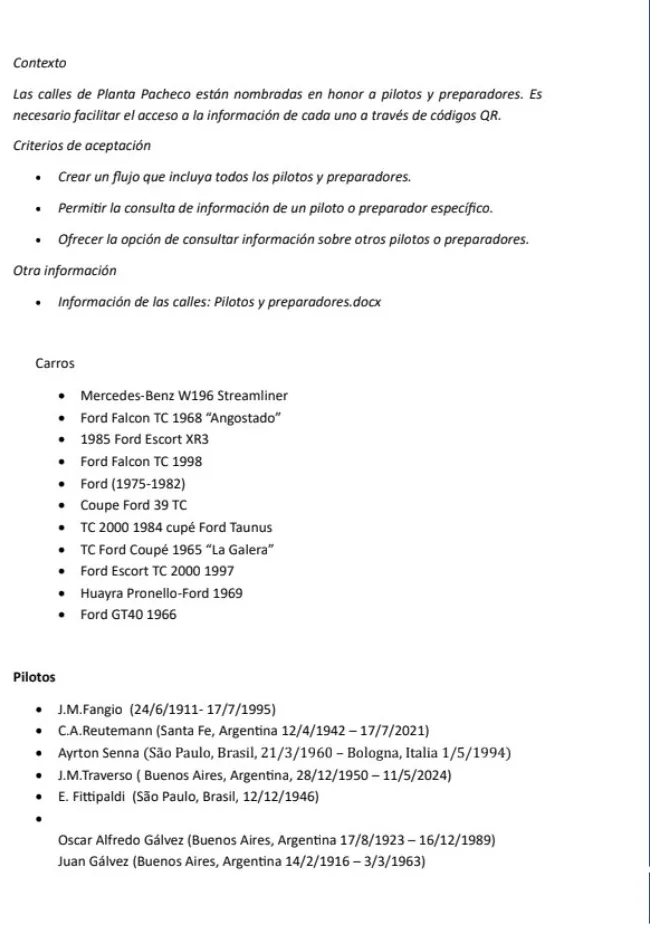
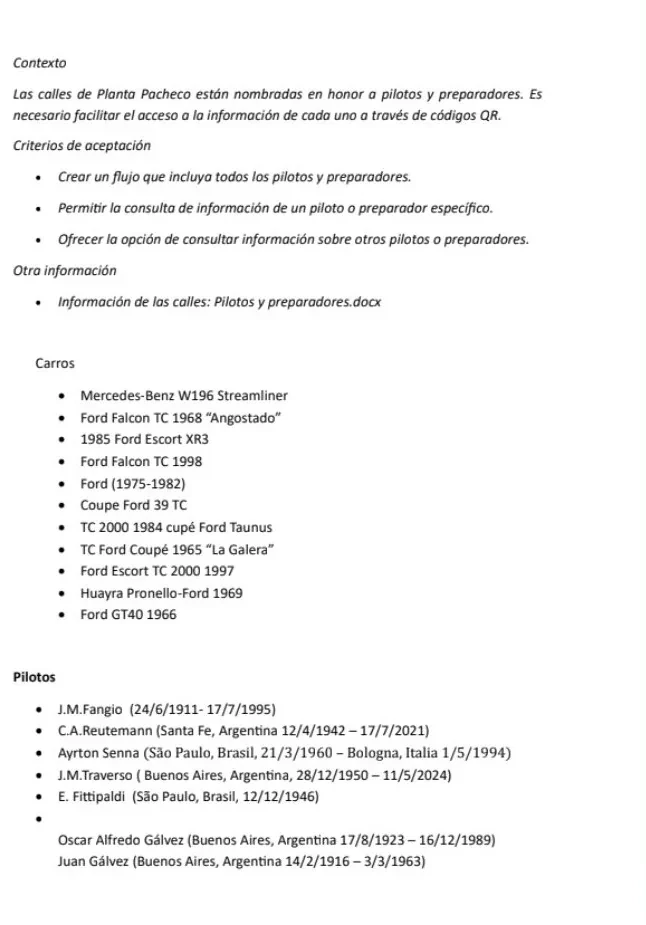
Add files via upload

diff --git a/build.py b/build.py
@@ -113,13 +113,13 @@ h3{font-size:1.2rem;margin:0 0 .4em;color:var(--ink)}.num{display:block;font:700
 .pills{display:flex;flex-wrap:wrap;gap:8px;justify-content:center;position:sticky;top:0;z-index:30;background:rgba(255,255,255,.92);-webkit-backdrop-filter:blur(8px);backdrop-filter:blur(8px);padding:10px 16px;margin:0 -16px;border-bottom:1px solid #f0ecff}article{scroll-margin-top:56px}.pills a{border:1px solid var(--pink);border-radius:999px;padding:6px 20px;text-decoration:none;color:var(--navy);font-weight:600;font-size:.85rem}
 .pills a[aria-current]{background:linear-gradient(90deg,#1c1140 0%,#235070 62%,#f28db1 190%);background-origin:border-box;color:#fff;border-color:transparent}
 .shero{display:flex;justify-content:space-between;align-items:center;gap:40px;color:#fff;border-radius:0;padding:56px calc(50vw - 50%);margin:12px calc(50% - 50vw) 0;background:var(--hex),linear-gradient(90deg,#1c1140 0%,#235070 62%,#f28db1 190%)}
-.shero small{font-size:.85rem}.shero h1{font:400 clamp(2.6rem,6vw,4.6rem)/1.05 Outfit,sans-serif;margin:.2em 0 0}
+.shero small{font-size:.85rem}.shero h1{font:700 clamp(2.8rem,7vw,4.8rem)/.98 Outfit,sans-serif;letter-spacing:-.04em;margin:.2em 0 0}
 .stats{min-width:200px}.stats div{border-top:1px solid rgba(255,255,255,.4);padding:22px 0}.stats div:last-child{padding-bottom:0}.stats div:first-child{border:0}.stats b{font:500 1.5rem/1.1 Outfit,sans-serif;display:block}.stats span{font-size:.75rem;display:block;margin-top:2px}
 .intro{font-size:1.15rem;margin:26px 0 16px;text-align:left}
 footer.site{margin-top:42px}.bandbar{height:14px;margin:0 calc(50% - 50vw);background:linear-gradient(90deg,#1c1140 0%,#235070 62%,#f28db1 190%)}.ft{display:flex;justify-content:space-between;align-items:center;padding:34px 8px}
 .ft h4{font:500 1.6rem Outfit,sans-serif;margin:0;color:var(--ink)}.ft p{margin:.2em 0 0;font-size:.9rem}.btn{border:1px solid #d9d2ff;border-radius:999px;padding:10px 34px;text-decoration:none;color:var(--navy)}
 .fl{display:flex;flex-wrap:wrap;gap:8px 24px;justify-content:center;text-align:center;font-size:.85rem;padding:0 8px 24px}.fl a{color:var(--navy);overflow-wrap:anywhere}
-html[data-embed] .site:not(.shero):not(footer){display:none}html[data-embed] .top{justify-content:flex-end}html[data-embed=body] .shero{display:none}html[data-embed],html[data-embed] body{overflow:hidden!important}html[data-embed] [id]{scroll-margin-top:90px}html[data-embed] dialog[open]{position:absolute;top:var(--dy,20px);bottom:auto;left:0;right:0;margin:0 auto;max-height:none}html[data-embed] dialog.hv{height:min(86vh,780px)}html[data-embed] dialog img{max-height:720px}html[data-embed=hero] main>*:not(.shero),html[data-embed=hero] footer,html[data-embed=hero] body>*:not(main){display:none!important}html[data-embed=hero] .shero{margin:0;min-height:100vh;box-sizing:border-box}html[data-embed=hero] body{margin:0;padding:0}html[data-embed=hero] main{max-width:none;padding:0;margin:0;width:100%}html[data-embed=hero],html[data-embed=hero] body{overflow:hidden;height:100%;background:transparent!important}html[data-embed=hero] .shero{background:none!important}html[data-embed=hero] .shero{margin:0!important;padding:20px max(20px,calc((100vw - 900px)/2))!important;border-radius:0;height:100vh;min-height:0!important;overflow:hidden}html[data-embed=hero] .shero h1{font-size:clamp(44px,9vh,64px);line-height:1.05}html[data-embed=hero] .stats{gap:0}
+html[data-embed] .nx a[href='#top']{display:none}html[data-embed] .site:not(.shero):not(footer){display:none}html[data-embed] .top{justify-content:flex-end}html[data-embed=body] .shero{display:none}html[data-embed],html[data-embed] body{overflow:hidden!important}html[data-embed] [id]{scroll-margin-top:90px}html[data-embed] dialog[open]{position:absolute;top:var(--dy,20px);bottom:auto;left:0;right:0;margin:0 auto;max-height:none}html[data-embed] dialog.hv{height:min(86vh,780px)}html[data-embed] dialog img{max-height:720px}html[data-embed=hero] main>*:not(.shero),html[data-embed=hero] footer,html[data-embed=hero] body>*:not(main){display:none!important}html[data-embed=hero] .shero{margin:0;min-height:100vh;box-sizing:border-box}html[data-embed=hero] body{margin:0;padding:0}html[data-embed=hero] main{max-width:none;padding:0;margin:0;width:100%}html[data-embed=hero],html[data-embed=hero] body{overflow:hidden;height:100%;background:transparent!important}html[data-embed=hero] .shero{background:none!important}html[data-embed=hero] .shero{margin:0!important;padding:20px max(20px,calc((100vw - 900px)/2))!important;border-radius:0;height:100vh;min-height:0!important;overflow:hidden}html[data-embed=hero] .shero h1{font-size:clamp(2.8rem,7vw,4.8rem);line-height:.98}html[data-embed=hero] .stats{gap:0}
 .fg{width:100%;height:520px;border:0;border-radius:24px;background:var(--soft);margin-top:20px}summary{cursor:pointer;font-weight:600;margin-top:18px;color:var(--violet)}
 .g{display:grid;grid-template-columns:repeat(auto-fill,minmax(220px,1fr));gap:10px;margin-top:14px}.g img{width:100%;border-radius:10px;cursor:zoom-in}
 .nx{display:flex;flex-wrap:wrap;align-items:center;justify-content:flex-start;gap:12px;margin-top:16px}
@@ -138,7 +138,7 @@ html[data-embed] main{padding-top:0}html[data-embed] .top{margin:0}
 .fl{flex-direction:column;align-items:center;gap:6px}
 .ft{padding:28px 8px}.btn{padding:10px 28px}
 html[data-embed=hero] .shero{height:auto!important;min-height:0!important;overflow:visible!important;padding:22px 20px!important;gap:22px}
-html[data-embed=hero] .shero h1{font-size:clamp(2rem,9vw,2.6rem)!important;line-height:1.08}
+html[data-embed=hero] .shero h1{font-size:2.8rem!important;line-height:1}
 html[data-embed=hero],html[data-embed=hero] body{overflow:visible!important;height:auto!important}
 .stats{min-width:0;width:100%}.stats div{padding:14px 0}
 }
@@ -168,6 +168,18 @@ addEventListener('message',e=>{if(e.data&&e.data.lang)set(String(e.data.lang).sl
 addEventListener('load',ping);addEventListener('resize',ping);
 document.querySelectorAll('details').forEach(d=>d.ontoggle=ping);
 {var q=new URLSearchParams(location.search);if(q.has('embed'))D.dataset.embed=q.get('embed')||'body';}
+(function(){var c=document.createElement('div');c.className='cc';c.setAttribute('role','dialog');var pt=()=>D.dataset.lang=='pt';
+c.innerHTML='<button class="x" aria-label="Fechar / Close">&times;</button><b></b><a target="_top" rel="noopener"></a><button class="cp"></button><small></small>';document.body.appendChild(c);
+var em=c.querySelector('b'),op=c.querySelector('a'),cp=c.querySelector('.cp'),sm=c.querySelector('small'),cur='';
+var close=()=>{c.classList.remove('on');ping()};
+c.querySelector('.x').onclick=close;
+function copy(t){try{if(navigator.clipboard&&window.isSecureContext)return navigator.clipboard.writeText(t).then(()=>1,()=>old(t))}catch(e){}return Promise.resolve(old(t))}
+function old(t){var a=document.createElement('textarea');a.value=t;a.setAttribute('readonly','');a.style.cssText='position:fixed;top:0;left:0;opacity:0';document.body.appendChild(a);a.select();a.setSelectionRange(0,t.length);var ok=0;try{ok=document.execCommand('copy')}catch(e){}a.remove();return ok}
+cp.onclick=()=>{copy(cur).then(ok=>{sm.textContent=ok?(pt()?'E-mail copiado ✓':'Email copied ✓'):(pt()?'Selecione e copie o e-mail acima':'Select and copy the email above')})};
+document.addEventListener('click',e=>{var a=e.target.closest('a[href^="mailto:"]');if(a&&!c.contains(a)){e.preventDefault();cur=a.getAttribute('href').slice(7);em.textContent=cur;op.href='mailto:'+cur;op.textContent=pt()?'Abrir meu app de e-mail':'Open my email app';cp.textContent=pt()?'Copiar e-mail':'Copy email';sm.textContent='';var r=a.getBoundingClientRect(),w=Math.min(320,innerWidth-24);c.classList.add('on');var h=c.offsetHeight,y=r.top+scrollY-h-10;if(y<scrollY+8)y=r.bottom+scrollY+10;var x=Math.max(12,Math.min(r.left+scrollX,innerWidth-w-12));c.style.top=y+'px';c.style.left=x+'px';ping();return}
+if(c.classList.contains('on')&&!c.contains(e.target))close()});
+document.addEventListener('keydown',e=>{if(e.key=='Escape')close()})})();
+
 if(D.dataset.embed){let cy=0;addEventListener('click',e=>{cy=e.clientY+scrollY},true);const o=HTMLDialogElement.prototype.showModal;HTMLDialogElement.prototype.showModal=function(){this.style.setProperty('--dy',Math.max(20,cy-260)+'px');o.call(this);setTimeout(()=>{this.scrollIntoView({block:'center'});parent.postMessage({goto:this.getBoundingClientRect().top+scrollY},'*')},30)}}
 if(D.dataset.embed)document.addEventListener('click',e=>{const a=e.target.closest('a[href^="#"]');if(!a||a.getAttribute('href').length<2)return;const t=document.getElementById(a.getAttribute('href').slice(1));if(!t)return;e.preventDefault();t.scrollIntoView({block:'start'});parent.postMessage({goto:t.getBoundingClientRect().top+scrollY},'*')});
 document.querySelectorAll('.car').forEach(c=>{const tr=c.querySelector('.track'),ds=c.nextElementSibling;ds.innerHTML='<i></i>'.repeat(tr.children.length);
@@ -187,15 +199,19 @@ def chrome(S, cur):
     menu = '<nav class="menu site">' + ''.join(f'<a href="{html.escape(u)}"' + (' aria-current="page"' if i == cur else '') + f'>{t([en, pt])}</a>' for i, (en, pt, u) in enumerate(S['menu'])) + '</nav>'
     foot = (f'<footer class="site"><div class="bandbar"></div><div class="ft"><div><h4>{t(S["cta"])}</h4><p>{t(S["cta2"])}</p></div>'
             f'<a class="btn" href="mailto:{S["email"]}">{t(S["btn"])}</a></div><div class="fl"><a href="mailto:{S["email"]}">{S["email"]}</a>'
-            f'<a href="{S["linkedin"]}">LinkedIn</a><span>© 2026 Suelen Magalhães</span></div></footer>')
+            f'<a href="{S["linkedin"]}" target="_blank" rel="noopener">LinkedIn</a><span>© 2026 Suelen Magalhães</span></div></footer>')
     return head, menu, foot
 
 def shell(title, body):
     return (f'<!doctype html><html data-lang="en"><head><meta charset="utf-8"><meta name="viewport" content="width=device-width,initial-scale=1">'
-            f'<title>{title}</title><link rel="preconnect" href="https://fonts.googleapis.com"><link rel="stylesheet" href="https://fonts.googleapis.com/css2?family=Inter:wght@400;600&family=Outfit:wght@500;700&display=swap"><style>{CSS}</style></head><body><main id="top">{body}</main><dialog><img alt=""></dialog><script>{JS}</script></body></html>')
+            f'<title>{title}</title><link rel="preconnect" href="https://fonts.googleapis.com"><link rel="stylesheet" href="https://fonts.googleapis.com/css2?family=Inter:wght@400;600&family=Outfit:wght@500;700&display=swap"><style>{CSS}{CCSS}</style></head><body><main id="top">{body}</main><dialog><img alt=""></dialog><script>{JS}</script></body></html>')
 
 def pimg(k, alt=''):
     return f'<img loading="lazy" alt="{html.escape(alt)}" src="assets/{k}.webp">' if (R / 'assets' / f'{k}.webp').exists() else ''
+
+CCSS = """.cc{position:absolute;z-index:99;width:min(320px,calc(100vw - 24px));background:#fff;border:1px solid #d9d2ff;border-radius:18px;box-shadow:0 12px 36px rgba(20,18,43,.22);padding:18px;display:none;font-family:Inter,sans-serif}.cc.on{display:block}.cc b{display:block;color:var(--ink);font-size:1.02rem;overflow-wrap:anywhere;margin:0 0 12px}.cc a,.cc button{display:block;width:100%;box-sizing:border-box;text-align:center;border-radius:999px;padding:12px 16px;font:600 .95rem Inter,sans-serif;margin-top:8px;cursor:pointer;text-decoration:none;min-height:44px}.cc a{background:linear-gradient(135deg,var(--pink),var(--violet));color:#fff;border:0}.cc button{background:#fff;color:var(--navy);border:1px solid var(--pink)}.cc .x{position:absolute;top:4px;right:6px;width:44px;height:44px;margin:0;border:0;font-size:1.5rem;background:none;padding:0}.cc small{display:block;text-align:center;color:var(--navy);margin-top:8px;min-height:1.2em}a,button,summary{touch-action:manipulation;-webkit-tap-highlight-color:rgba(242,141,177,.25)}
+@media(pointer:coarse),(max-width:700px){.bar button{min-height:40px;min-width:48px;padding:8px 14px}.menu a{display:inline-block;padding:12px 8px}summary{min-height:44px;display:flex;align-items:center}.shero a,.nx a{min-height:44px;display:inline-flex;align-items:center}dialog button,.ar,.ar2{min-width:44px;min-height:44px}.fl a{padding:10px 8px}.hb,.pb,.pills a{min-height:44px;box-sizing:border-box}.btn{display:inline-block;min-height:44px;box-sizing:border-box}}
+"""
 
 PCSS = """body.ph{background:#fff}.ph .intro{display:none}
 .pt{display:grid;grid-template-columns:1.2fr 1fr;gap:20px 56px;align-items:end;margin:44px 4px 0}
